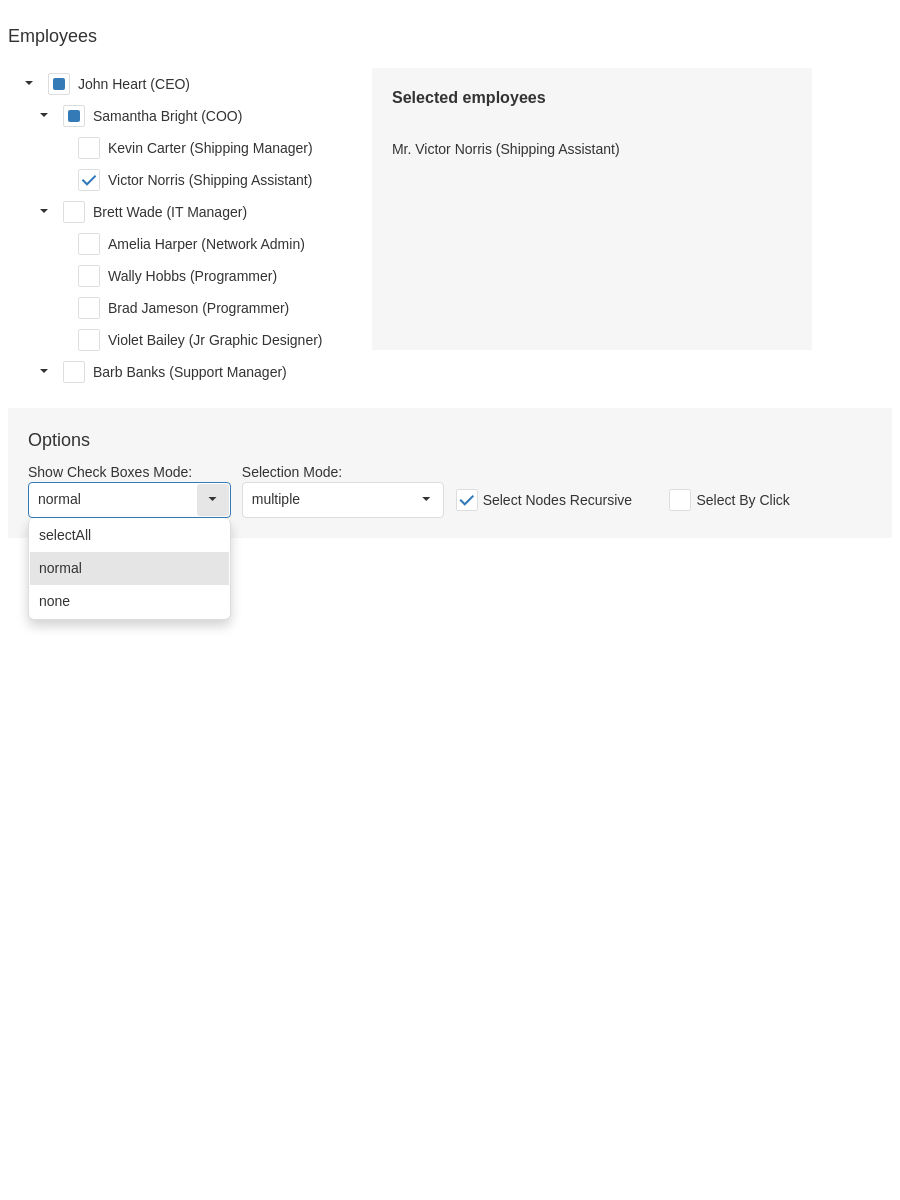
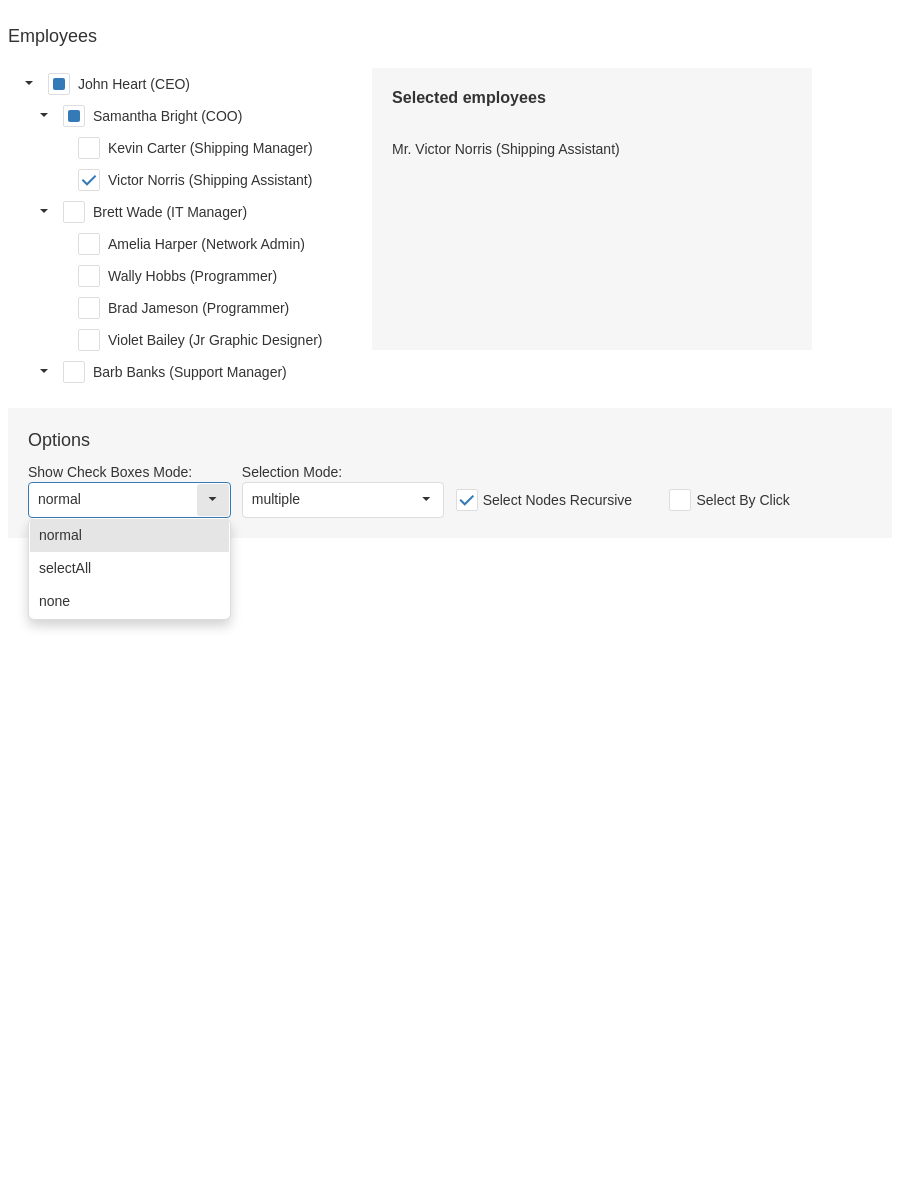
fix(treeView): Fix order in selectBox && Update screenshot

Changed region(s): [[0.0311, 0.4317, 0.28, 0.4933]]

diff --git a/JSDemos/Demos/TreeView/ItemSelectionAndCustomization/jQuery/index.js b/JSDemos/Demos/TreeView/ItemSelectionAndCustomization/jQuery/index.js
@@ -32,7 +32,7 @@ $(() => {
   }
 
   $('#showCheckBoxesMode').dxSelectBox({
-    items: ['selectAll', 'normal', 'none'],
+    items: ['normal', 'selectAll', 'none'],
     inputAttr: { 'aria-label': 'Show Checkboxes Mode' },
     value: 'normal',
     onValueChanged(e) {
